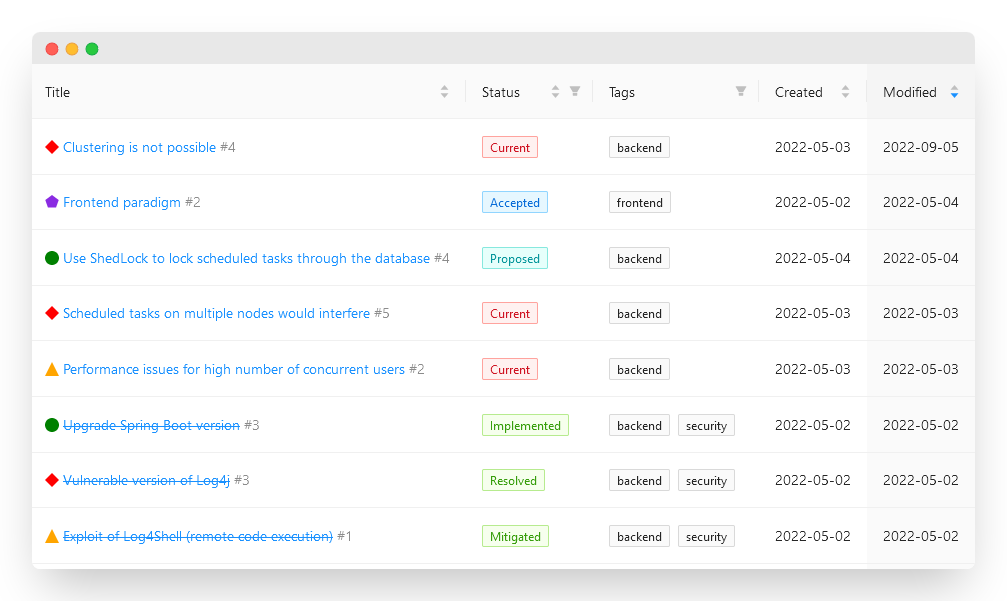
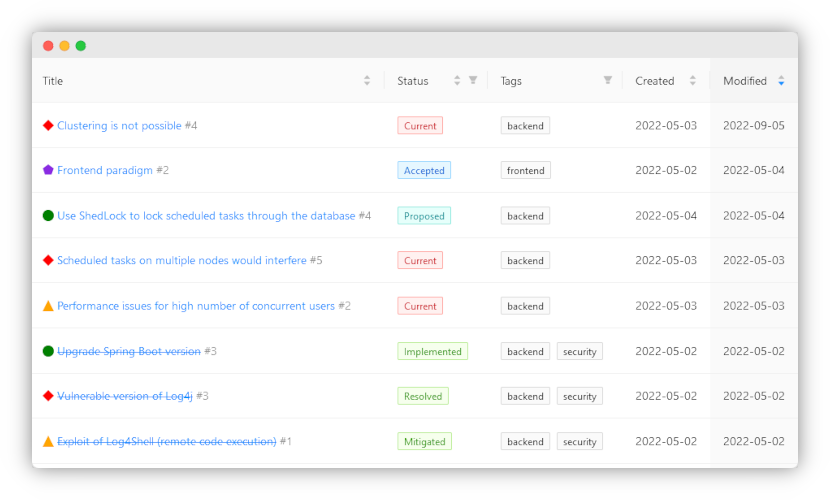
feat: better screenshots

diff --git a/README.md b/README.md
@@ -22,11 +22,11 @@ scope42 is a Progressive Web App that runs entirely inside your browser. Click t
 
 <h3 align="center">✨ Management of items with a fancy UI</h3>
 
-<img src="docs/screenshot-table.png" width="100%" alt="Screenshot of item table">
+<img src="docs/screenshot-table.png" alt="Screenshot of item table">
 
 <h3 align="center">💑 Graphs for visualizing the relationships between items</h3>
 
-<img src="docs/screenshot-graph.png" width="100%" alt="Screenshot of item graph">
+<img src="docs/screenshot-graph.png" alt="Screenshot of item graph">
 
 <h3 align="center">📝 Docs-as-Code principle and full data ownership</h3>
 
